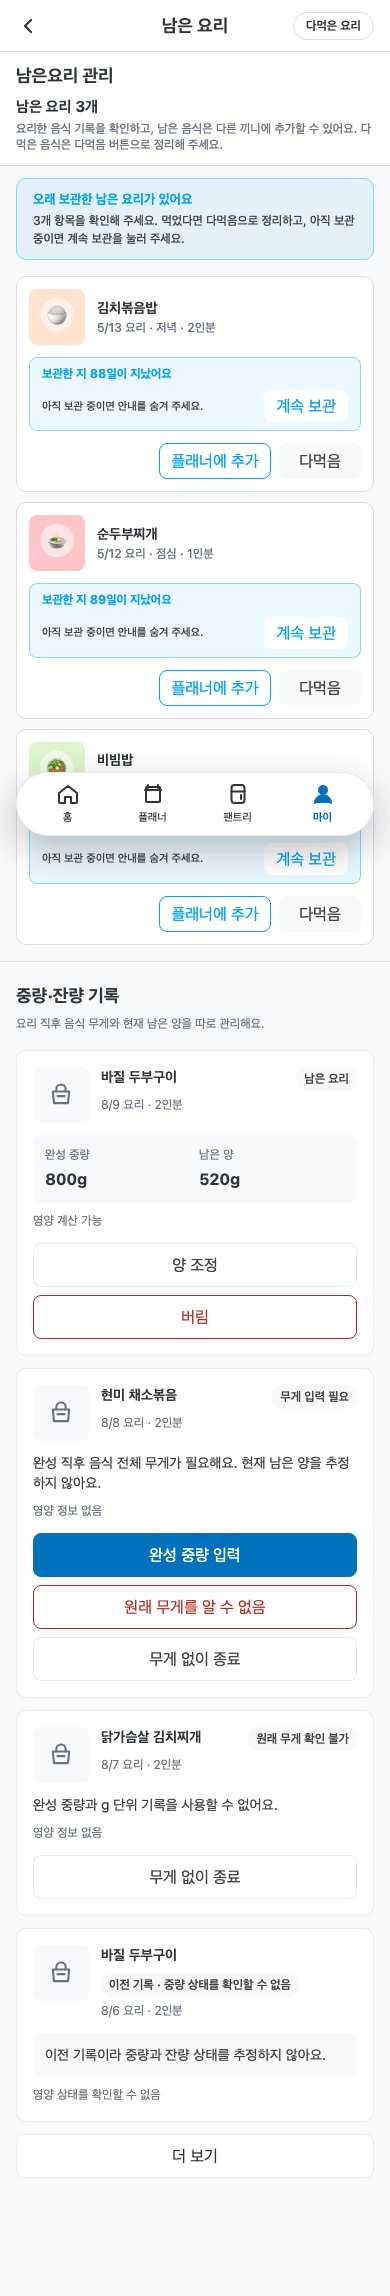
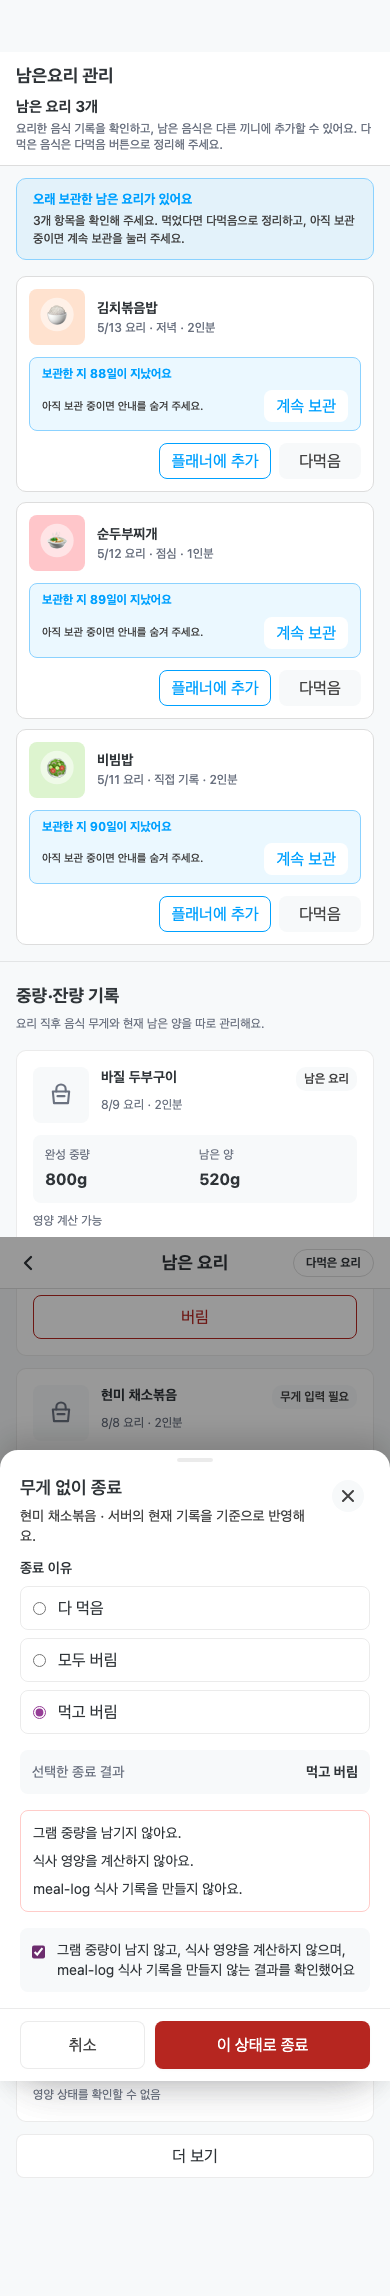
Preserve proof for the leftover safety repair
Fresh 390/320 evidence and runtime assertions now show the authority-required confirmation and error recovery states. Record the repaired implementation target and keep every independent approval and activation boundary pending.

Constraint: Authority verdict reports, shared roadmap/status files, and CBW-CM-MIN-01 remain unchanged.

Rejected: Repair the authority validator here | mixed runtime JSON and visual-ref validation is a separate tooling concern.

Confidence: high

Scope-risk: narrow

Directive: Fresh authority rereview must use implementation head 6aac3c19 and the manifest captured from that exact tree.

Tested: Clean verify:frontend; canonical Playwright 2 pass/2 skip; QA eval 93; SOT/workflow/workpack/automation/bookkeeping/exploratory/closeout validators; audit high; diff check.

Not-tested: Physical keyboard, VoiceOver/TalkBack, real virtual keyboard/safe-area, full WCAG, server-Mac/OAuth, R/R+1/R+2, and activation.

diff --git a/docs/workpacks/cooked-batch-weight-ui/evidence/2026-08-10-stage4-authority-findings-repair.md b/docs/workpacks/cooked-batch-weight-ui/evidence/2026-08-10-stage4-authority-findings-repair.md
@@ -1,0 +1,115 @@
+# cooked-batch-weight-ui Stage 4 authority findings repair
+
+## Scope and lineage
+
+- task: `019fe9a4-f94c-7230-a1f7-9d0b8116d1c0`
+- role: fresh Stage 4 authority findings repair author; not authority reviewer, Stage 5, final authority, Stage 6 or merge owner
+- reviewed PR head/tree: `c9179cce6bc30134401fce770e41577b5d60e1b3` / `c81ca940844bef333d0a8323ed2b7ecea12af59b`
+- authority report commit: `9a9630b5b699a9b6c48561b0bab60fbc7c02ae42`; successor lineage commit `9285f016c6f8245c2498158133860fcb570c396e`
+- merged base: `origin/master` `11883fb790dbe4664ed5f409fd0b5cf55ee02f41`, tree `f687f4723cbbd9135de64d53fc2050a0a83d9df8`
+- non-rebase merge commit: `cdff58d62617d41e829f0a14bc2b45f0d1385a3b`
+- repaired implementation head/tree: `6aac3c194f9606df8269fcd42a9cfa9f974fa1f0` / `cc2ebc645214433dada8492141ba950b5035a9d8`
+- branch: local successor `feature/fe-cooked-batch-weight-ui-authority-repair`; final push target remains `feature/fe-cooked-batch-weight-ui`
+- Draft PR: [#1320](https://github.com/netsus/homecook/pull/1320); Ready/merge remain forbidden here
+
+The repair changes only the existing frontend action sheet and tests/evidence. It adds no public field, error, status, action, endpoint, schema, dependency, backend write or direct DML. `CBW-CM-MIN-01` remains backlog; the shared footer was not changed.
+
+## Authority finding closure
+
+### CBW-LO-MAJ-01
+
+- discard and negative adjustment now stop at an explicit second confirmation before the request is sent.
+- the confirmation shows the authoritative current remainder, entered amount, local result guidance and entered reason.
+- the result is labelled as pre-submit guidance; the final remainder/state remains determined by the existing server response.
+- unweighed close shows the selected `consumed | discarded | mixed` result and explicitly requires confirmation that no gram weight, nutrition calculation or meal-log entry remains.
+- confirmation back retains inputs. Existing opener focus restore, Escape close, pending Escape/dismiss lock and disabled duplicate submit remain intact.
+- positive adjustment keeps its existing direct correction path because the authority finding requires the destructive negative path to receive the second step.
+
+Evidence:
+
+- `tests/cooked-batch-lifecycle-actions.test.tsx`
+- `tests/e2e/slice-cooked-batch-weight-ui-evidence.spec.ts`
+- `ui/designs/evidence/cooked-batch-weight-ui/LEFTOVERS-mobile-default-390-known-missing-unrecoverable.png`
+- `ui/designs/evidence/cooked-batch-weight-ui/LEFTOVERS-mobile-narrow-320-actions.png`
+- `ui/designs/evidence/cooked-batch-weight-ui/runtime-focus-keyboard-overflow.json`
+
+### CBW-LO-MAJ-02
+
+- only official existing names are mapped: `finished_weight_g`, `discarded_g`, `delta_g`, `reason`, `closure_reason`.
+- unknown `error.fields[]` entries are ignored and create no new field or error contract.
+- the alert summary receives focus; mapped controls receive `aria-invalid=true` and `aria-describedby` pointing to that alert.
+- values remain present after the 422 response. A separate 409 flow also proves that the entered finished weight remains present.
+- the 320 runtime flow exercises a real mocked 422 with `discarded_g` and `reason`, while the retained 409 flow remains covered independently.
+
+Evidence:
+
+- `tests/cooked-batch-lifecycle-actions.test.tsx`
+- `ui/designs/evidence/cooked-batch-weight-ui/LEFTOVERS-mobile-narrow-320-pending-error.png`
+- `ui/designs/evidence/cooked-batch-weight-ui/runtime-focus-keyboard-overflow.json`
+
+## TDD and verification
+
+RED was observed before implementation:
+
+- focused Vitest: `1 passed / 4 failed`; the new tests could not find the second confirmation, explicit close consequences or field/error links.
+- existing Playwright evidence: `1 failed / 1 passed / 2 intended skip`; the old flow waited for the removed generic checkbox instead of the new confirmation step.
+
+GREEN at repaired implementation head:
+
+- focused lifecycle Vitest: `5/5` pass
+- related #11 Vitest: `4 files / 11 tests` pass
+- canonical #11 Playwright: `2 pass / 2 intended skip`
+- focused ESLint, TypeScript and `git diff --check`: pass
+- exploratory QA/eval: score `93`, validation errors `0`, `52/63 covered`, `11/63 blocked`, new product findings `0`
+- clean `pnpm verify:frontend`: exit `0`
+  - lint/typecheck: pass
+  - product Vitest: `227 files / 2,702 tests` pass; `11 files / 150 tests` intended skip
+  - production build: pass; `78` pages
+  - Lighthouse: `2 URLs × 3 runs` pass
+  - full regression: `952 pass / 170 intended skip / 0 fail`
+  - a11y: `18 pass / 15 intended skip / 0 fail`
+  - visual: `23 pass / 22 intended skip / 0 fail`
+  - security: `12 pass / 0 fail`
+
+The first full verify attempt stopped on one unrelated `slice-18-manual-recipe-create` mobile-chrome concurrency failure (`951/170/1`). Its exact isolated rerun passed `1/1`, and the subsequent full clean invocation passed `952/170/0`; no unrelated product code was changed.
+
+## Fresh visual/runtime evidence
+
+- canonical manifest: `ui/designs/evidence/cooked-batch-weight-ui/manifest.json`
+- captured at: `2026-08-10T03:50:08.157Z`
+- implementation head/tree: `6aac3c194f9606df8269fcd42a9cfa9f974fa1f0` / `cc2ebc645214433dada8492141ba950b5035a9d8`
+- PNGs: `15`; all were freshly generated, `12` remained byte-identical and `3` changed to show the authority repair
+- runtime JSON: `2`
+- original sizes inspected directly: `320`, `390`, and `1440` widths; the confirmation and 422 captures are native `320×568`, and the unweighed close capture is native `390×2296`
+- existing COOK_MODE full-page contrast residual: exactly `2` nodes
+- new #11 sheet/section selector-scoped serious/critical: `0`
+- no page-wide-zero claim is made
+
+## Authority validator tooling mismatch
+
+The Draft successor command exits `0` because the validator gate is inactive for this branch context:
+
+```text
+pnpm validate:authority-evidence-presence -- --slice cooked-batch-weight-ui
+authority evidence presence validation passed
+```
+
+The Ready-equivalent command reproduces the existing specification/tool mismatch and exits `1`:
+
+```text
+BRANCH_NAME=feature/fe-cooked-batch-weight-ui PR_IS_DRAFT=false pnpm validate:authority-evidence-presence -- --slice cooked-batch-weight-ui
+Authority reports are missing required ui/designs/evidence/cooked-batch-weight-ui/runtime-focus-keyboard-overflow.json visual evidence.
+Authority reports are missing required ui/designs/evidence/cooked-batch-weight-ui/runtime-axe-wcag.json visual evidence.
+Authority reports are missing required ui/designs/evidence/cooked-batch-weight-ui/manifest.json visual evidence.
+```
+
+Affected source: `scripts/lib/validate-authority-evidence-presence.mjs`. Lines `141-143` reduce report refs to image extensions, while lines `273-283` compare every declared Stage 4 requirement—including runtime JSON and manifest—against that visual-only set. This product repair does not alter the validator or the authority report verdict/content. The orchestrator must decide whether to open a separate tooling repair before Ready.
+
+## Pending and not claimed
+
+- fresh independent authority rereview of this exact repaired implementation/evidence target
+- independent Stage 5, final product-design authority and Stage 6
+- physical keyboard, VoiceOver/TalkBack, real virtual keyboard/safe-area and full WCAG Manual checks
+- server-Mac/OAuth, R/R+1/R+2 and capability activation
+- shared `docs/workpacks/README.md` / `.workflow-v2/status.json` projection owned by the sequential #9/shared lane
+- Ready transition, merge and Discord notification
